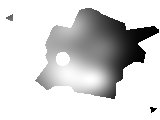
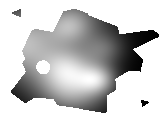
feat(gallery): map stories
Four map slides for the gallery: the three kinds of raster, a flight and an inset, a
time-lapse with its counting panel, and points sized and coloured by a column. The
gallery's fictional country now has its two islands off the coast, so the mainland
fills the slide; the map example names Southmouth, the highest rate in the new data.

diff --git a/site/gallery/deck.js b/site/gallery/deck.js
@@ -2,8 +2,9 @@
 // each slide re-exporting the engine's own example so the gallery cannot drift from it; then the motion slides,
 // written for the gallery, which show the named motions, a step's choreography and the slide devices (focus-dim,
 // the message line and badges, ghost placeholders); then the data-story slides, which play the chart moves
-// (forecast and sweep, the draw fan, estimates, pairs, strips, waterfall, pyramid); last the custom component
-// (components/gallery.slope/), a slope chart built only from what the engine hands every component, with no import.
+// (forecast and sweep, the draw fan, estimates, pairs, strips, waterfall, pyramid) and the map's (rasters, a flight and
+// an inset, a time-lapse, points); last the custom component (components/gallery.slope/), a slope chart built only from
+// what the engine hands every component, with no import.
 // All content is synthetic. `entries` also feeds the landing page; test/unit/gallery.test.mjs checks it covers everything.
 const LAYOUTS = ["figure-notes", "full-bleed", "halves", "statement", "title"];
 const COMPONENTS = ["text", "chart.line", "chart.bar", "chart.points", "terminal", "markdown", "big-number", "list", "diagram", "chat", "timeline", "image", "map"];
@@ -23,6 +24,10 @@ const STORY = [
   ["story-strips", "strips", "chart.points"],
   ["story-waterfall", "waterfall", "chart.bar"],
   ["story-pyramid", "back to back", "chart.bar"],
+  ["map-rasters", "map rasters", "map"],
+  ["map-flight-inset", "flight and inset", "map"],
+  ["map-timelapse", "time-lapse", "map"],
+  ["map-points", "sized points", "map"],
 ];
 // The deck's own components, each with the slide that shows it; their entries link the custom-components guide.
 const CUSTOM = [["custom-slope", "gallery.slope"]];

diff --git a/site/gallery/slides/map-flight-inset.js b/site/gallery/slides/map-flight-inset.js
@@ -1,0 +1,23 @@
+// Map story: a flight and an inset. A choropleth of the change in each region, a flight to the region that rose most
+// (the map zooms in on it), then back out with an inset that keeps it in view: a zoomed second view with a box on the map
+// where it is, two leader lines and a scale bar. The country is narrow, so the home view is a box wider than it to the
+// west: the country sits to the right of centre and the inset has the empty left for itself, with the legend under it.
+// Data: data/map/regions.geojson and data/map/change.csv (code, change).
+const HOME = { bounds: [-22.5, -29.62, -10, -23.49] };
+export default {
+  id: "map-flight-inset",
+  layout: "full-bleed",
+  title: "Southmouth rose the most",
+  elements: [
+    { id: "map", region: "main", type: "map",
+      props: { boundaries: "data/map/regions.geojson", id: "code", name: "name", shown: ["change"], view: HOME, legend: "bottom-left",
+               layers: { change: { areas: "data/map/change.csv", value: "change", label: "Change in cases per 1,000", classes: [-4, 0, 4], midpoint: 0 } } } },
+    { id: "src", region: "main", type: "text", props: { role: "source", text: "Synthetic data." } },
+  ],
+  steps: [
+    { id: "change" },
+    { id: "flight", set: { map: { view: "S1", labels: ["S1"] } } },
+    { id: "inset", set: { map: { view: HOME, inset: { view: "S1", at: "top-left" } } } },
+  ],
+  notes: "A flight (view) and an inset with its box, leaders and scale bar. Reference: docs/reference/components/map.md",
+};

diff --git a/site/gallery/slides/map-rasters.js b/site/gallery/slides/map-rasters.js
@@ -1,0 +1,26 @@
+// Map story: the three kinds of raster. A value raster first (density, with the land it has no data for hatched), then a
+// raster of classes (land cover) in its place, then a mask (near a well) over the classes: each layer brings its legend
+// row, and the density's row leaves with it. Data: data/map/regions.geojson, and a raster file each (density.json,
+// cover.json, wells.json, each with its greyscale PNG next to it).
+export default {
+  id: "map-rasters",
+  layout: "full-bleed",
+  title: "Density, land cover and wells, one layer at a time",
+  elements: [
+    { id: "map", region: "main", type: "map",
+      props: { boundaries: "data/map/regions.geojson", id: "code", name: "name",
+               layers: {
+                 density: { raster: "data/map/density.json", label: "People per km²" },
+                 cover: { raster: "data/map/cover.json", label: "Land cover" },
+                 wells: { raster: "data/map/wells.json", label: "Wells", color: "ink" },
+               } } },
+    { id: "src", region: "main", type: "text", props: { role: "source", text: "Synthetic data." } },
+  ],
+  steps: [
+    { id: "regions" },
+    { id: "density", set: { map: { shown: ["density"] } } },
+    { id: "cover", set: { map: { shown: ["cover"] } } },
+    { id: "wells", set: { map: { shown: ["cover", "wells"] } } },
+  ],
+  notes: "Three raster kinds: a value raster (hatch where there is no data), classes, and a mask. Reference: docs/reference/components/map.md",
+};

diff --git a/engine/components/map/example.js b/engine/components/map/example.js
@@ -1,12 +1,12 @@
 // Example slide using `map`: the regions of a fictional country, then their rates in four classes (Cragmoor has no
-// rate, so it is hatched and the legend adds a "no data" row), then the highest rate (Ironridge) and the lowest on the
+// rate, so it is hatched and the legend adds a "no data" row), then the highest rate (Southmouth) and the lowest on the
 // mainland (Eastport; only an island is lower) named and highlighted for one step (`only`, so it does not carry
 // over). Data, relative to the deck root: data/map/regions.geojson, whose property `code` identifies each region and
 // `name` names it, and data/map/rates.csv, with columns code and rate.
 export default {
   id: "map-example",
   layout: "full-bleed",
-  title: "Ironridge is highest, Eastport lowest on the mainland",
+  title: "Southmouth is highest, Eastport lowest on the mainland",
   elements: [
     { id: "map", region: "main", type: "map",
       props: { boundaries: "data/map/regions.geojson", id: "code", name: "name",
@@ -16,6 +16,6 @@ export default {
   steps: [
     { id: "regions" },
     { id: "rates", set: { map: { shown: ["rate"] } } },
-    { id: "ends", only: { map: { highlight: ["W4", "E1"], labels: ["W4", "E1"] } } },
+    { id: "ends", only: { map: { highlight: ["S1", "E1"], labels: ["S1", "E1"] } } },
   ],
 };

diff --git a/site/gallery/slides/map-timelapse.js b/site/gallery/slides/map-timelapse.js
@@ -1,0 +1,21 @@
+// Map story: a time-lapse. A raster file with twelve frames, 2010 to 2021, each frame a year of people per km². Each
+// step moves `frame`: the map runs through the frames in between, and the panel's year and its people count follow.
+// Data: data/map/regions.geojson and data/map/years.json (twelve PNGs in data/map/years/, `numbers.people` in each).
+export default {
+  id: "map-timelapse",
+  layout: "full-bleed",
+  title: "The population grew by about 45% from 2010 to 2021",
+  elements: [
+    { id: "map", region: "main", type: "map",
+      props: { boundaries: "data/map/regions.geojson", id: "code", name: "name", shown: ["years"],
+               layers: { years: { raster: "data/map/years.json", label: "People per km²" } },
+               numbers: [{ key: "people", label: "People", format: ",.0f" }] } },
+    { id: "src", region: "main", type: "text", props: { role: "source", text: "Synthetic data." } },
+  ],
+  steps: [
+    { id: "start" },
+    { id: "middle", set: { map: { frame: "2015" } } },
+    { id: "end", set: { map: { frame: "2021" } } },
+  ],
+  notes: "A time-lapse: frame moves a run through the frames, pace sets the time per frame, numbers fills the panel. Reference: docs/reference/components/map.md",
+};

diff --git a/site/gallery/slides/map-points.js b/site/gallery/slides/map-points.js
@@ -1,0 +1,21 @@
+// Map story: points. Twelve sites, each a circle at its longitude and latitude, sized by its beds (area true to the
+// value) and coloured by its kind (clinic, hospital, post), with a size key in the legend; then the four hospitals
+// highlighted for a step (`only`) while every other point turns dim. Data: data/map/regions.geojson and
+// data/map/sites.csv (id, lon, lat, beds, kind).
+export default {
+  id: "map-points",
+  layout: "full-bleed",
+  title: "Four hospitals hold most of the beds",
+  elements: [
+    { id: "map", region: "main", type: "map",
+      props: { boundaries: "data/map/regions.geojson", id: "code", name: "name",
+               layers: { sites: { points: "data/map/sites.csv", lon: "lon", lat: "lat", id: "id", size: "beds", color: "kind", label: "Beds" } } } },
+    { id: "src", region: "main", type: "text", props: { role: "source", text: "Synthetic data." } },
+  ],
+  steps: [
+    { id: "regions" },
+    { id: "sites", set: { map: { shown: ["sites"] } } },
+    { id: "hospitals", only: { map: { highlight: ["S02", "S05", "S08", "S11"] } } },
+  ],
+  notes: "Points sized by a value and coloured by a column, then a highlight by id. Reference: docs/reference/components/map.md",
+};

diff --git a/docs/reference/components/map.md b/docs/reference/components/map.md
@@ -8,13 +8,13 @@ Sources: [`components/map/schema.json`](../../../engine/components/map/schema.js
 
 ## Use it
 
-The gallery's example slide (`components/map/example.js`): the regions of a fictional country, then their rates in four classes, then the region with the highest rate (Ironridge) and the one with the lowest on the mainland (Eastport; only the island of Little Holm is lower) named and highlighted for one step. The map fills `main` of a `full-bleed` slide, with the source line under it.
+The gallery's example slide (`components/map/example.js`): the regions of a fictional country, then their rates in four classes, then the region with the highest rate (Southmouth) and the one with the lowest on the mainland (Eastport; only the island of Little Holm is lower) named and highlighted for one step. The map fills `main` of a `full-bleed` slide, with the source line under it.
 
 ```js
 export default {
   id: "map-example",
   layout: "full-bleed",
-  title: "Ironridge is highest, Eastport lowest on the mainland",
+  title: "Southmouth is highest, Eastport lowest on the mainland",
   elements: [
     { id: "map", region: "main", type: "map",
       props: { boundaries: "data/map/regions.geojson", id: "code", name: "name",
@@ -24,7 +24,7 @@ export default {
   steps: [
     { id: "regions" },
     { id: "rates", set: { map: { shown: ["rate"] } } },
-    { id: "ends", only: { map: { highlight: ["W4", "E1"], labels: ["W4", "E1"] } } },
+    { id: "ends", only: { map: { highlight: ["S1", "E1"], labels: ["S1", "E1"] } } },
   ],
 };
 ```

diff --git a/CHANGELOG.md b/CHANGELOG.md
@@ -143,7 +143,8 @@ All notable changes to stepdeck are recorded here. The format follows
   a corner panel shows the frame's label and its `numbers` counting. A step that changes `frame` and other things
   plays the other changes first, then the run. A played step ends where a jump does, canvas pixels included, and
   `dump` reports each canvas layer's view, layers, frame and signature, which `check --played` compares. The
-  gallery has a `map` example slide.
+  gallery has a `map` example slide and four map stories, in the landing page's "Data stories": the three kinds of
+  raster, a flight and an inset, a time-lapse, and points sized and coloured by a column.
 - **The raster format and writer functions.** A raster is one JSON (`bounds`, what the grey levels mean in
   `value`, and a greyscale PNG in `src`, or `frames` for a time-lapse), defined so that R, Python and the browser
   agree on every value. `docs/guide/maps/stepdeck-map.R` and `docs/guide/maps/stepdeck_map.py` write it from a

diff --git a/skill/references/cookbook.md b/skill/references/cookbook.md
@@ -654,23 +654,23 @@ The files, all written by the project's code into `data/`:
 
 ```csv
 code,rate
-N1,10.4
-N2,5.6
-E1,2.4
-W1,13.3
-E2,6.2
-E3,10.7
-E4,2.6
-E5,4.9
-W2,15.6
-S1,16.1
-E6,8.8
-W3,14.2
-W4,18.5
-S2,17.6
-S3,11.2
-I1,8.9
-I2,2.0
+N1,14.4
+N2,7.8
+E1,2.6
+W1,14.2
+E2,9.3
+E3,12.6
+E4,3.1
+E5,7.7
+W2,14.2
+S1,18.5
+E6,15.5
+W3,6.7
+W4,11.9
+S2,12.9
+S3,9.0
+I1,8.2
+I2,2.1
 ```
 
 In the project's Python code, once the yearly surfaces are computed (`surface[year]`: rows north to south, `None` where there is no data; `total[year]`: the people in that year):
@@ -701,7 +701,7 @@ export default {
   ],
   steps: [
     { id: "rates" },
-    { id: "zoom", set: { map: { view: "W4", labels: ["W4"] } } },
+    { id: "zoom", set: { map: { view: "S1", labels: ["S1"] } } },
     { id: "years", set: { map: { shown: ["years"], frame: "2021" } } },
   ],
 };

diff --git a/docs/guide/maps-from-your-code.md b/docs/guide/maps-from-your-code.md
@@ -61,9 +61,9 @@ A FeatureCollection of `Polygon` and `MultiPolygon` features, in longitude and l
 
 ```csv
 code,rate
-N1,10.4
-N2,5.6
-E1,2.4
+N1,14.4
+N2,7.8
+E1,2.6
 ```
 
 - **The key column** names each row's region (the layer's `key`, by default the map's `id` name). Keys are compared with the region ids as text, trimmed.
